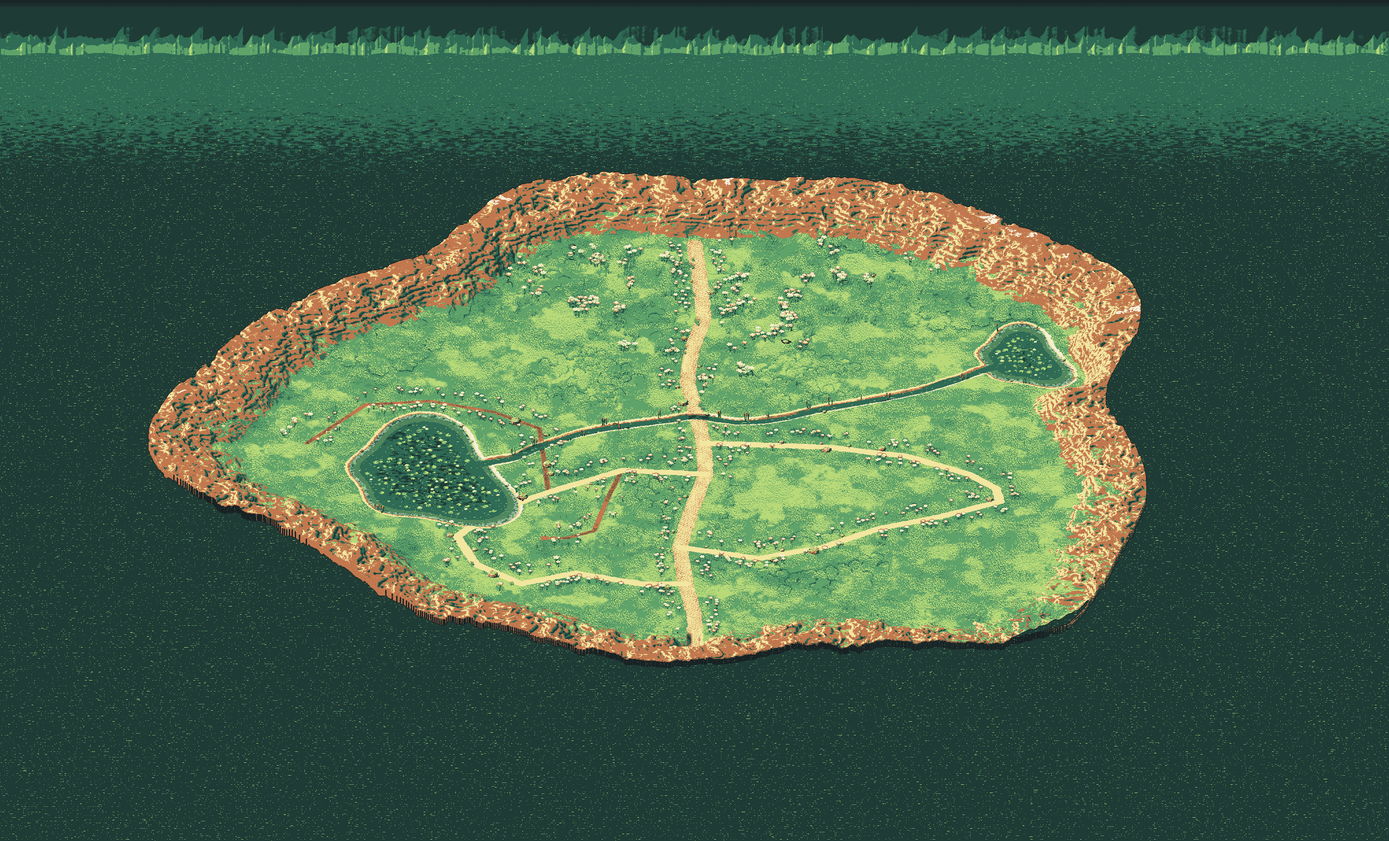
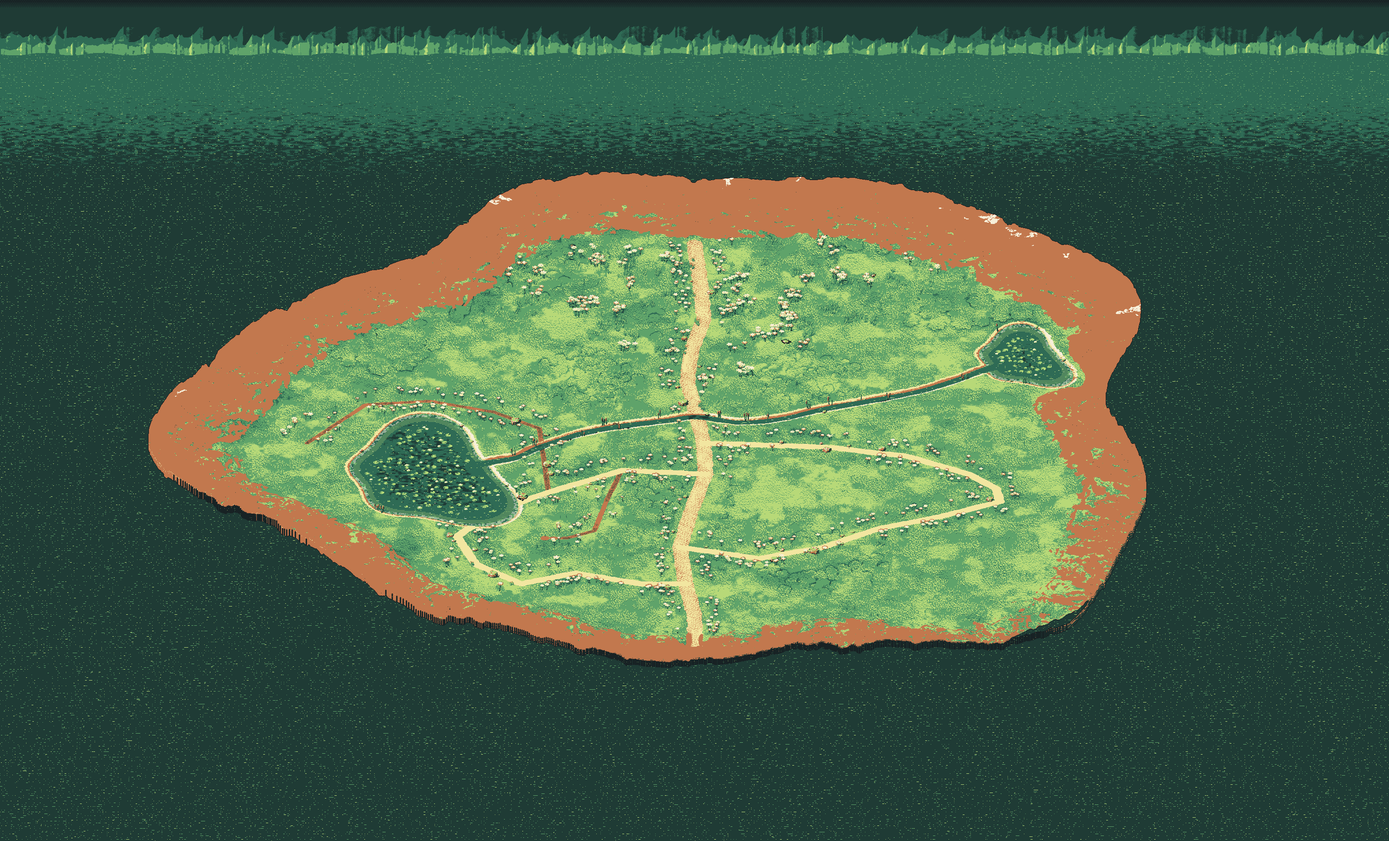
Calm the dirt cliff band: rock uses the earth role only
Rock (the south rim and cliff faces) drops the yellow highlight streaks and the teal shadow pits. Its ramp is the earth role alone, and the relight picks the earth role's three light steps, so the shading still comes from light. Strata are thinner. The relight include is patched to match the generator.

Claude-Session: https://claude.ai/code/session_01Pmx9dTFzPRe6zkzjs2MKQs

diff --git a/tools/art/gen_meadow3d.py b/tools/art/gen_meadow3d.py
@@ -801,7 +801,7 @@ diff = np.clip(nrm @ L, 0, 1)
 if GRASS == 'old': lt = .13 + .87 * diff + (tone - .5) * .26 * (mat == T_GRASS) + (n2 - .5) * .06
 else: lt = .13 + .87 * diff + (tone - .5) * .10 * (mat == T_GRASS) + (n2 - .5) * .06 * (mat != T_GRASS)    # grass detail comes from grass_tex.py
 strata = (np.floor(h / 3.1 + vn2(FU / 18, FV / 18, 5) * 2.5) % 2)
-lt -= .04 * strata * (mat == T_ROCK)
+lt -= .02 * strata * (mat == T_ROCK)
 lap = samp(LAP, FU, FV); lt -= np.clip(lap * .5, 0, .32); lt += np.clip(-lap * .25, 0, .12)
 lt -= .22 * ((dp > pw - 1.4) & (dp < pw + .2) & (mat == T_PATH)) * (n2 > .45)        # ruts / worn edge
 # defined edges: a dark rim on the grass just outside the path, and light pebbles scattered across the path surface
@@ -851,7 +851,7 @@ for c0 in range(0, len(u_), 1500000):
     shadow[sl_] = s_
 shadow[len(T['u']):len(T['u']) + len(Wd['u'])] = False
 log('shadows done')
-RAMP = {T_GRASS: [1, 2, 3, 3, 4], T_ROCK: [1, 2, 2, 6, 6, 6, 6, 6, 5], T_MOSS: [1, 2, 2, 3, 3], T_SAND: [6, 6, 5, 7], T_WET: [1, 6, 6, 5], T_PATH: [6, 5, 5, 7], T_FROST: [6, 5, 7, 7], T_EARTH: [1, 6, 6, 5],
+RAMP = {T_GRASS: [1, 2, 3, 3, 4], T_ROCK: [6, 6, 6, 6, 6, 6, 6, 6, 6],   # rock is the earth role only: the relight picks its three light steps (calm dirt band, no yellow or teal) T_MOSS: [1, 2, 2, 3, 3], T_SAND: [6, 6, 5, 7], T_WET: [1, 6, 6, 5], T_PATH: [6, 5, 5, 7], T_FROST: [6, 5, 7, 7], T_EARTH: [1, 6, 6, 5],
         M_FOL: [1, 2, 3, 4], M_BARK: [1, 6, 6, 5], M_PINE: [1, 2, 2, 3], M_ROCK: [1, 2, 6, 5], M_MOSS: [2, 3, 4, 4], M_CRYS: [2, 3, 4, 7], M_WOOD: [1, 6, 5, 7],
         M_PETA: [3, 5, 5, 7], M_PETB: [2, 6, 6, 5], M_STEM: [1, 2, 3, 3], M_LILY: [1, 2, 3, 4], M_REED: [1, 2, 3, 3], M_CAT: [1, 6, 6, 5], M_BERRY: [1, 6, 6, 5],
         M_CAP: [1, 6, 6, 5], M_CSTEM: [6, 5, 7, 7], M_PAPER: [5, 7, 7, 7], M_GRASS: [2, 3, 3, 4], M_BARKT: [6, 5, 7, 7], M_BARKT2: [1, 6, 5, 7], M_INK: [0, 0, 1, 1], M_DARKF: [0, 0, 1, 1], M_PAPER + 20: [5, 7, 7, 7]}

diff --git a/tools/art/gen_larkmoor.py b/tools/art/gen_larkmoor.py
@@ -1012,7 +1012,7 @@ diff = np.clip(nrm @ L, 0, 1)
 if GRASS == 'old': lt = .13 + .87 * diff + (tone - .5) * .26 * (mat == T_GRASS) + (n2 - .5) * .06
 else: lt = .13 + .87 * diff + (tone - .5) * .10 * (mat == T_GRASS) + (n2 - .5) * .06 * (mat != T_GRASS)    # grass detail comes from grass_tex.py
 strata = (np.floor(h / 3.1 + vn2(FU / 18, FV / 18, 5) * 2.5) % 2)
-lt -= .07 * strata * (mat == T_ROCK)
+lt -= .02 * strata * (mat == T_ROCK)     # calm dirt cliff band: rock is the earth role, shaded by the relight steps
 lap = samp(LAP, FU, FV); lt -= np.clip(lap * .5, 0, .32); lt += np.clip(-lap * .25, 0, .12)
 # worn path, one material: a soft tone shift that follows the noise, with no dark rim on the grass and no pebble speckle
 # (those read as a hard edging band). The trodden ground and the turf meet through the ragged edge above.
@@ -1072,7 +1072,7 @@ for c0 in range(0, len(u_), 1500000):
     shadow[sl_] = s_
 shadow[len(T['u']):len(T['u']) + len(Wd['u'])] = False
 log('shadows done')
-RAMP = {T_GRASS: [1, 2, 3, 3, 4], T_ROCK: [1, 2, 6, 6, 5], T_SAND: [6, 6, 5, 7], T_WET: [1, 6, 6, 5], T_PATH: [6, 6, 5, 5], T_TRAIL: [6, 6, 6, 1], T_FROST: [6, 5, 7, 7], T_EARTH: [1, 6, 6, 5],
+RAMP = {T_GRASS: [1, 2, 3, 3, 4], T_ROCK: [6, 6, 6, 6, 6], T_SAND: [6, 6, 5, 7], T_WET: [1, 6, 6, 5], T_PATH: [6, 6, 5, 5], T_TRAIL: [6, 6, 6, 1], T_FROST: [6, 5, 7, 7], T_EARTH: [1, 6, 6, 5],
         M_FOL: [1, 2, 3, 4], M_BARK: [1, 6, 6, 5], M_PINE: [1, 2, 2, 3], M_ROCK: [1, 6, 6, 7], M_MOSS: [2, 3, 4, 4], M_CRYS: [2, 3, 4, 7], M_WOOD: [1, 6, 5, 7],
         M_PETA: [3, 5, 5, 7], M_PETB: [2, 6, 6, 5], M_STEM: [1, 2, 3, 3], M_LILY: [1, 2, 3, 4], M_REED: [1, 2, 3, 3], M_CAT: [1, 6, 6, 5], M_BERRY: [1, 6, 6, 5],
         M_CAP: [1, 6, 6, 5], M_CSTEM: [6, 5, 7, 7], M_PAPER: [5, 7, 7, 7], M_GRASS: [2, 3, 3, 4], M_BARKT: [6, 5, 7, 7], M_BARKT2: [1, 6, 5, 7], M_INK: [0, 0, 1, 1], M_PAPER + 20: [5, 7, 7, 7], M_DARKF: [0, 0, 1, 1]}

diff --git a/docs/decisions/art.md b/docs/decisions/art.md
@@ -512,3 +512,12 @@ Nathan picked mockup A (mounds) from the three styles in `plinky/pad-stage-mocku
 - **Kept:** the forward carry, capped to the room left in the grabbed half. The lift drop onto the arc is unchanged: the sun dropping about 33 texels from a high release is that drop, not a fault.
 - **Pass metric for QA:** after release, the body's offset below its arc point at its current phase (`-lift * reach`, drawn straight down, in art texels) must stay at or under 0.37 texels. Travel along the arc is not the metric: it includes the flick carry and the natural clock.
 - **Not verified in-engine:** how a stop after a backward flick feels on the PC.
+
+## 2026-11-25: Calm dirt cliff band (rock is the earth role)
+- **Brief (Nathan, option A of three mockups on the real Larkmoor start frame):** the rust rim at the bottom of Larkmoor was the loudest, most textured area and pulled the eye from the walker. Keep the earth read and the Bayer texture, and drop the yellow streaks and the near-black pits.
+- **Cause:** the rock ramp (`T_ROCK`) used the light role 5 for its top step (the yellow streaks), and the shadow role 1 (dark teal) for its bottom step (the pits). The relight in `render/shaders/prop_ramps.gdshaderinc` read the same ramp.
+- **Change:** rock is the earth role (6) only. In `gen_meadow3d.py` and `gen_larkmoor.py` the ramp is `[6, 6, 6, 6, 6]` (meadow: nine entries), and strata drop from .04/.07 to .02. The relight picks the earth role's three light steps (`prop_ramp_steps`), so the shading still comes from light. Palette stays at 8 anchors.
+- **Generated include:** `prop_ramps.gdshaderinc` material 101 is `25, 25, 26, 26, 26, 26, 27, 27, 27`, which is what `gen_meadow3d.py` produces from the new ramp. It was patched by hand because re-running `gen_meadow3d.py` rewrites the meadow tools output.
+- **Scope:** every rock texel on the meadow and Larkmoor maps, not only the south rim. Mountains and cliff faces get the same earth shading.
+- **Checked:** in-engine with the cloud's software Vulkan render, `golden_shots.tscn` at noon and dusk, before and after. The baked ground was regenerated and the bake reproduced the committed ground before the change.
+- **Lesson:** a ramp that drops the highlight step gives a flat sheet in the bake. Shading must come from the relight steps of the same role, not from an extra ramp colour.

diff --git a/changelog.d/calm-cliff-band.patch.md b/changelog.d/calm-cliff-band.patch.md
@@ -1,0 +1,1 @@
+The south dirt cliff band in Larkmoor and the meadow rock no longer carry yellow highlight streaks or teal pits. Rock now uses the earth colour alone, shaded by light, so the band reads as one calm rim behind the walker.
